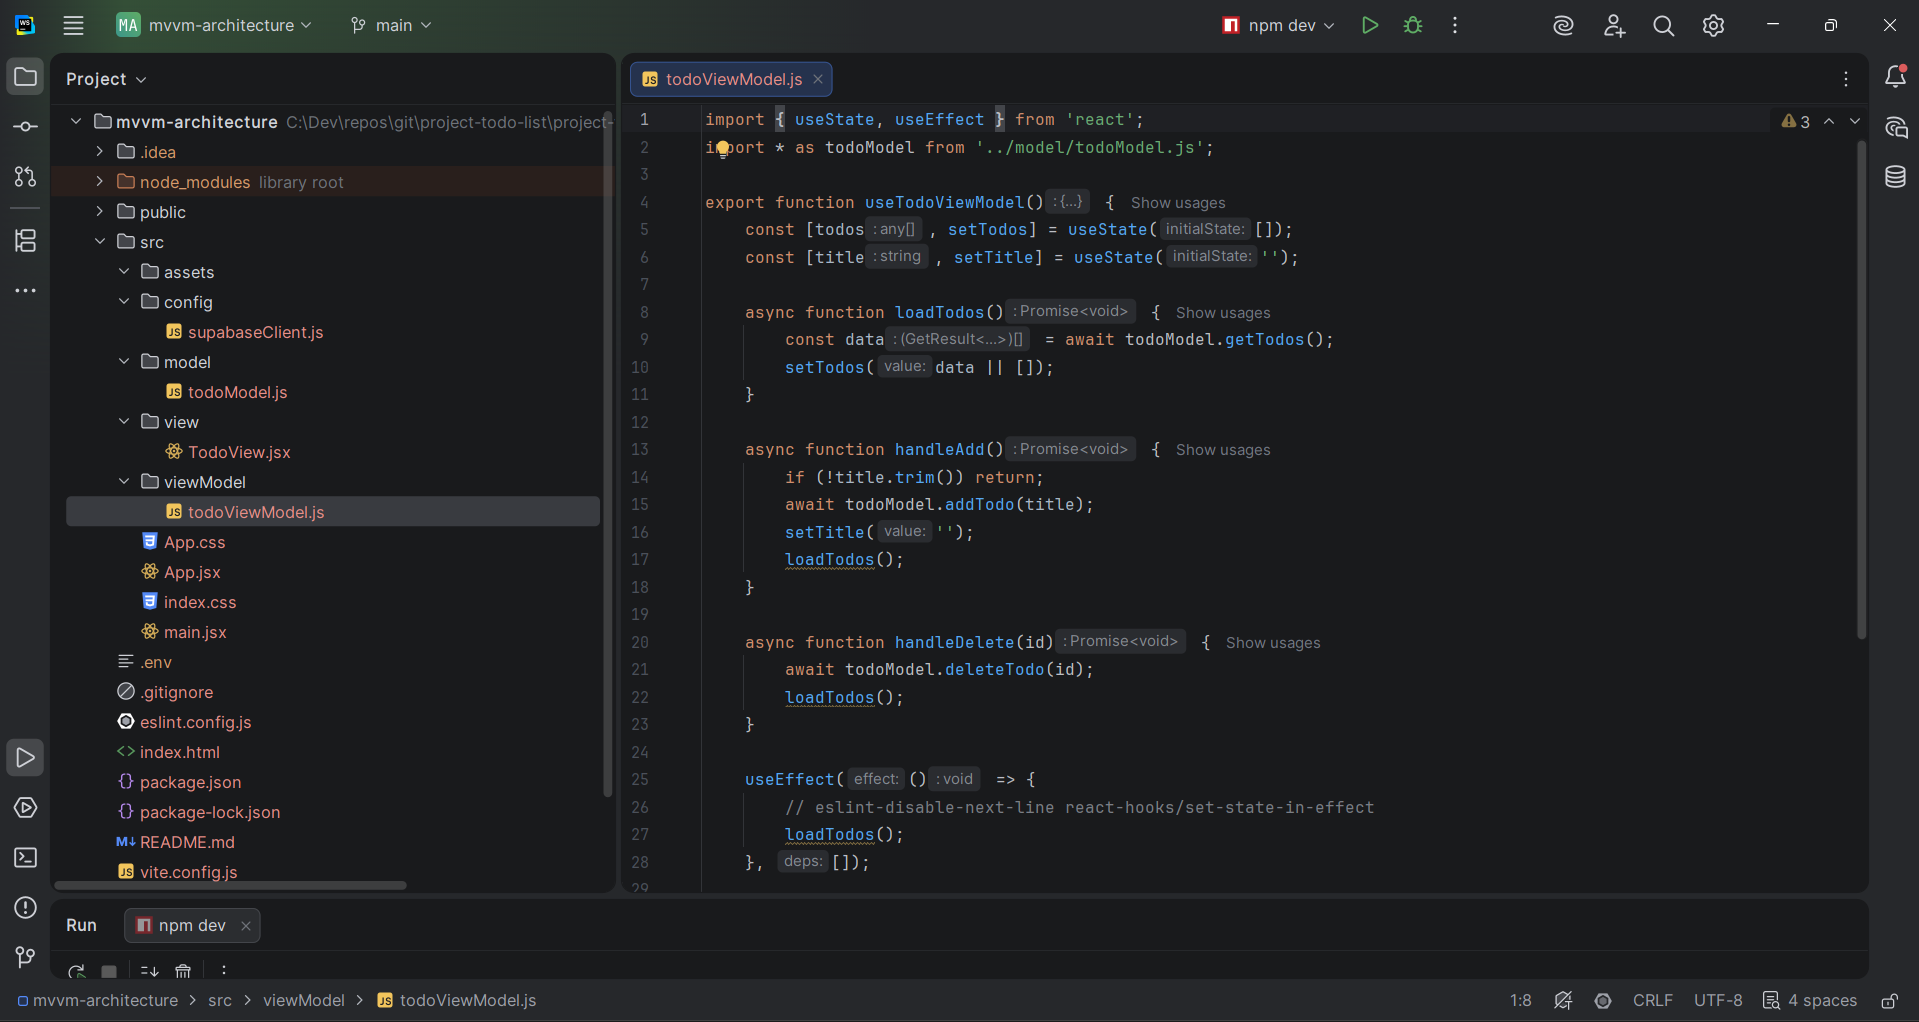
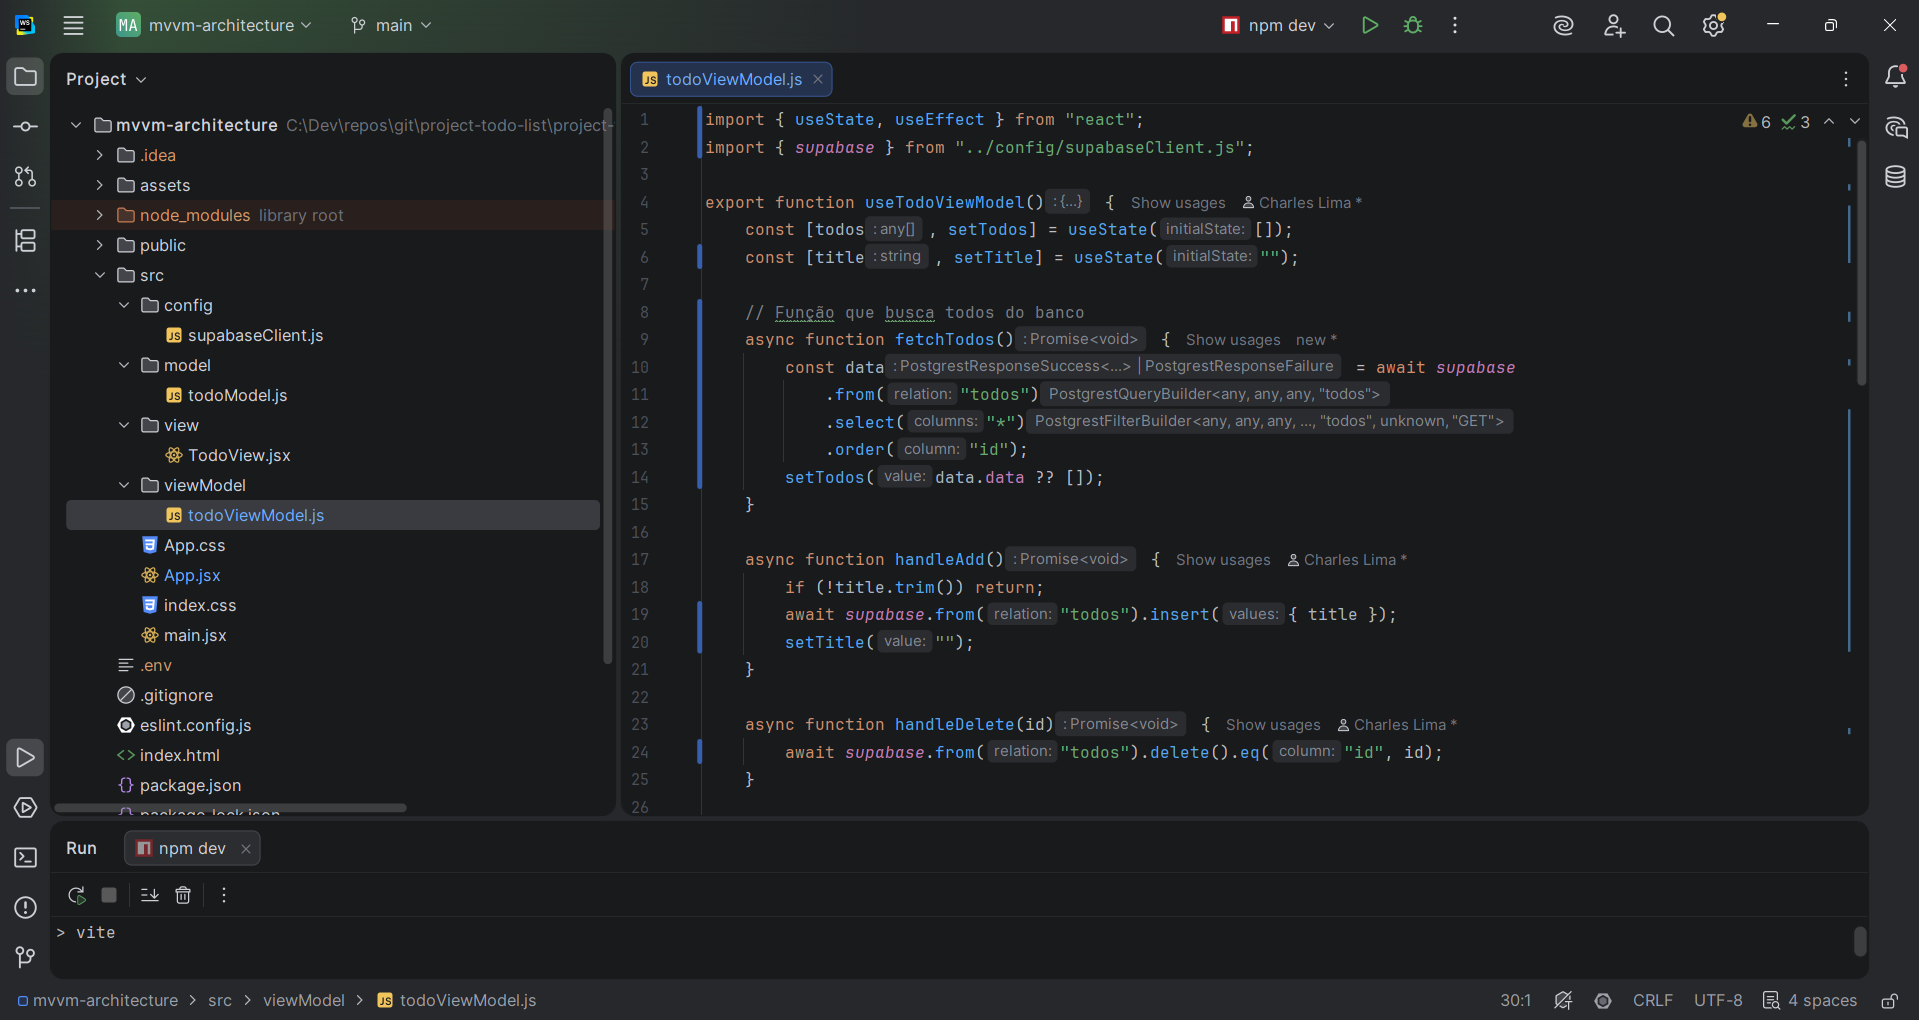
## updating images

diff --git a/mvvm-architecture/src/viewModel/todoViewModel.js b/mvvm-architecture/src/viewModel/todoViewModel.js
@@ -1,30 +1,56 @@
-import { useState, useEffect } from 'react';
-import * as todoModel from '../model/todoModel.js';
+import { useState, useEffect } from "react";
+import { supabase } from "../config/supabaseClient.js";
 
 export function useTodoViewModel() {
     const [todos, setTodos] = useState([]);
-    const [title, setTitle] = useState('');
+    const [title, setTitle] = useState("");
 
-    async function loadTodos() {
-        const data = await todoModel.getTodos();
-        setTodos(data || []);
+    // Função que busca todos do banco
+    async function fetchTodos() {
+        const data = await supabase
+            .from("todos")
+            .select("*")
+            .order("id");
+        setTodos(data.data ?? []);
     }
 
     async function handleAdd() {
         if (!title.trim()) return;
-        await todoModel.addTodo(title);
-        setTitle('');
-        loadTodos();
+        await supabase.from("todos").insert({ title });
+        setTitle("");
     }
 
     async function handleDelete(id) {
-        await todoModel.deleteTodo(id);
-        loadTodos();
+        await supabase.from("todos").delete().eq("id", id);
     }
 
     useEffect(() => {
         // eslint-disable-next-line react-hooks/set-state-in-effect
-        loadTodos();
+        fetchTodos();
+
+        const subscription = supabase
+            .channel("realtime-todos")
+            .on(
+                "postgres_changes",
+                { event: "INSERT", schema: "public", table: "todos" },
+                (payload) => {
+                    setTodos((prev) => [...prev, payload.new]);
+                }
+            )
+            .on(
+                "postgres_changes",
+                { event: "DELETE", schema: "public", table: "todos" },
+                (payload) => {
+                    setTodos((prev) =>
+                        prev.filter((todo) => todo.id !== payload.old.id)
+                    );
+                }
+            )
+            .subscribe();
+        
+        return () => {
+            supabase.removeChannel(subscription);
+        };
     }, []);
 
     return {
@@ -32,6 +58,6 @@ export function useTodoViewModel() {
         title,
         setTitle,
         handleAdd,
-        handleDelete
+        handleDelete,
     };
 }

diff --git a/mvvm-architecture/src/App.jsx b/mvvm-architecture/src/App.jsx
@@ -1,14 +1,9 @@
-import TodoView from './view/TodoView';
-import { useTodoViewModel } from './viewmodel/todoViewModel';
+import React from "react";
+import TodoView from "./view/TodoView";
+import { useTodoViewModel } from "./viewmodel/todoViewModel.js";
 
 export default function App() {
-    const {
-        todos,
-        title,
-        setTitle,
-        handleAdd,
-        handleDelete
-    } = useTodoViewModel();
+    const { todos, title, setTitle, handleAdd, handleDelete } = useTodoViewModel();
 
     return (
         <TodoView
